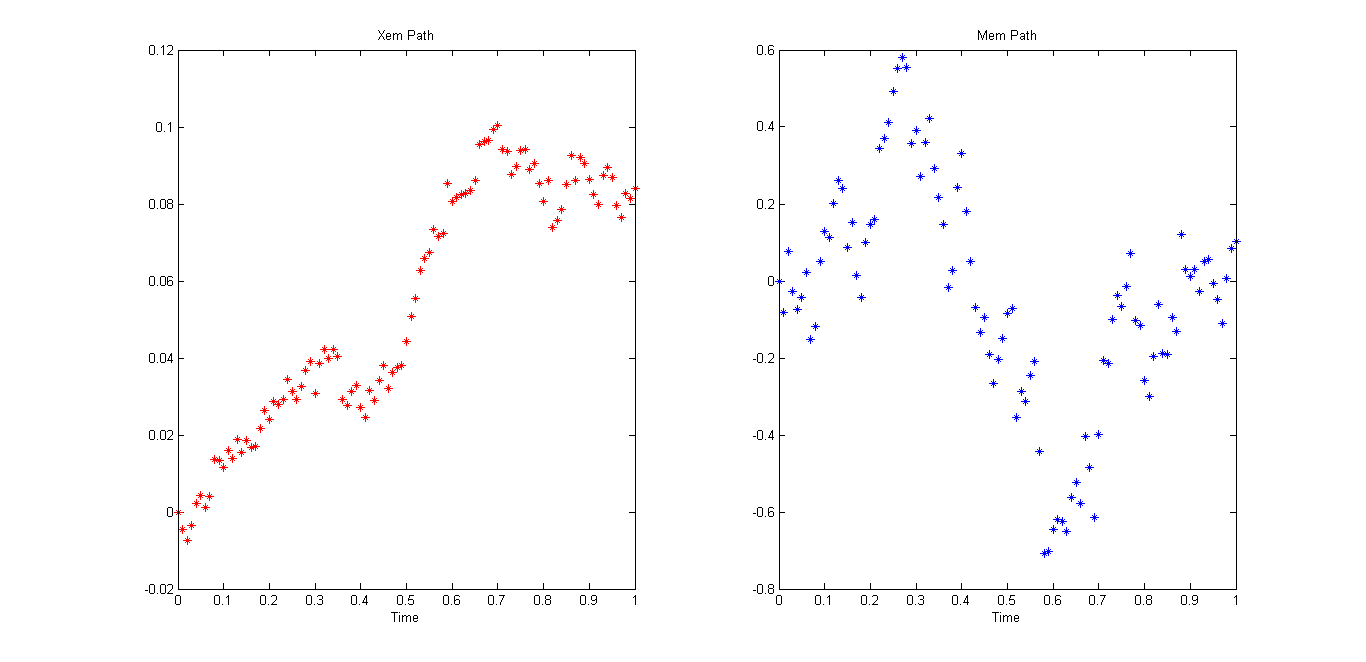
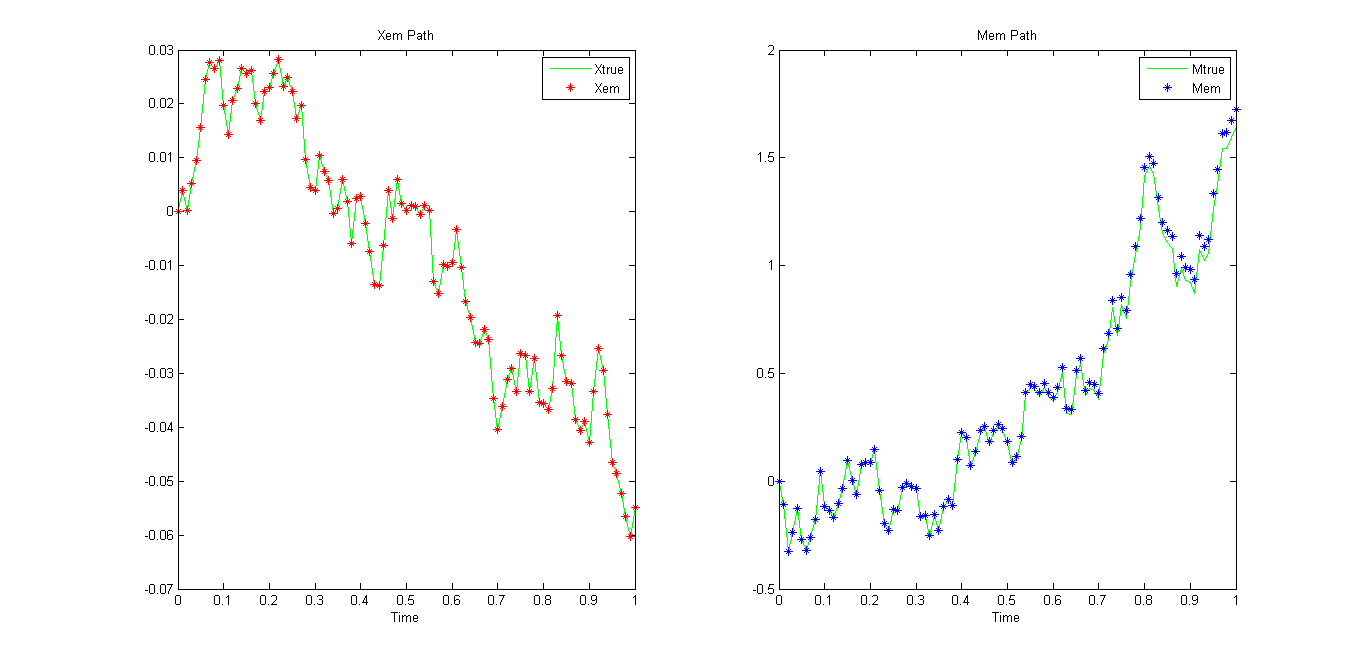
added true solution to benchmark plot

diff --git a/Paper/Final Presentation/modeling.tex b/Paper/Final Presentation/modeling.tex
@@ -99,8 +99,8 @@
 \end{tabular}
 \end{center}
 \begin{itemize}
-	\item $\bar{X}$ (-0.0088, 0.0067)
-	\item $\bar{M}$ (-0.137, 0.217)
+	\item $\bar{X}$ (-0.0104, 0.00826)
+	\item $\bar{M}$ (-0.172, 0.252)
 \end{itemize}
 \end{frame}
 
